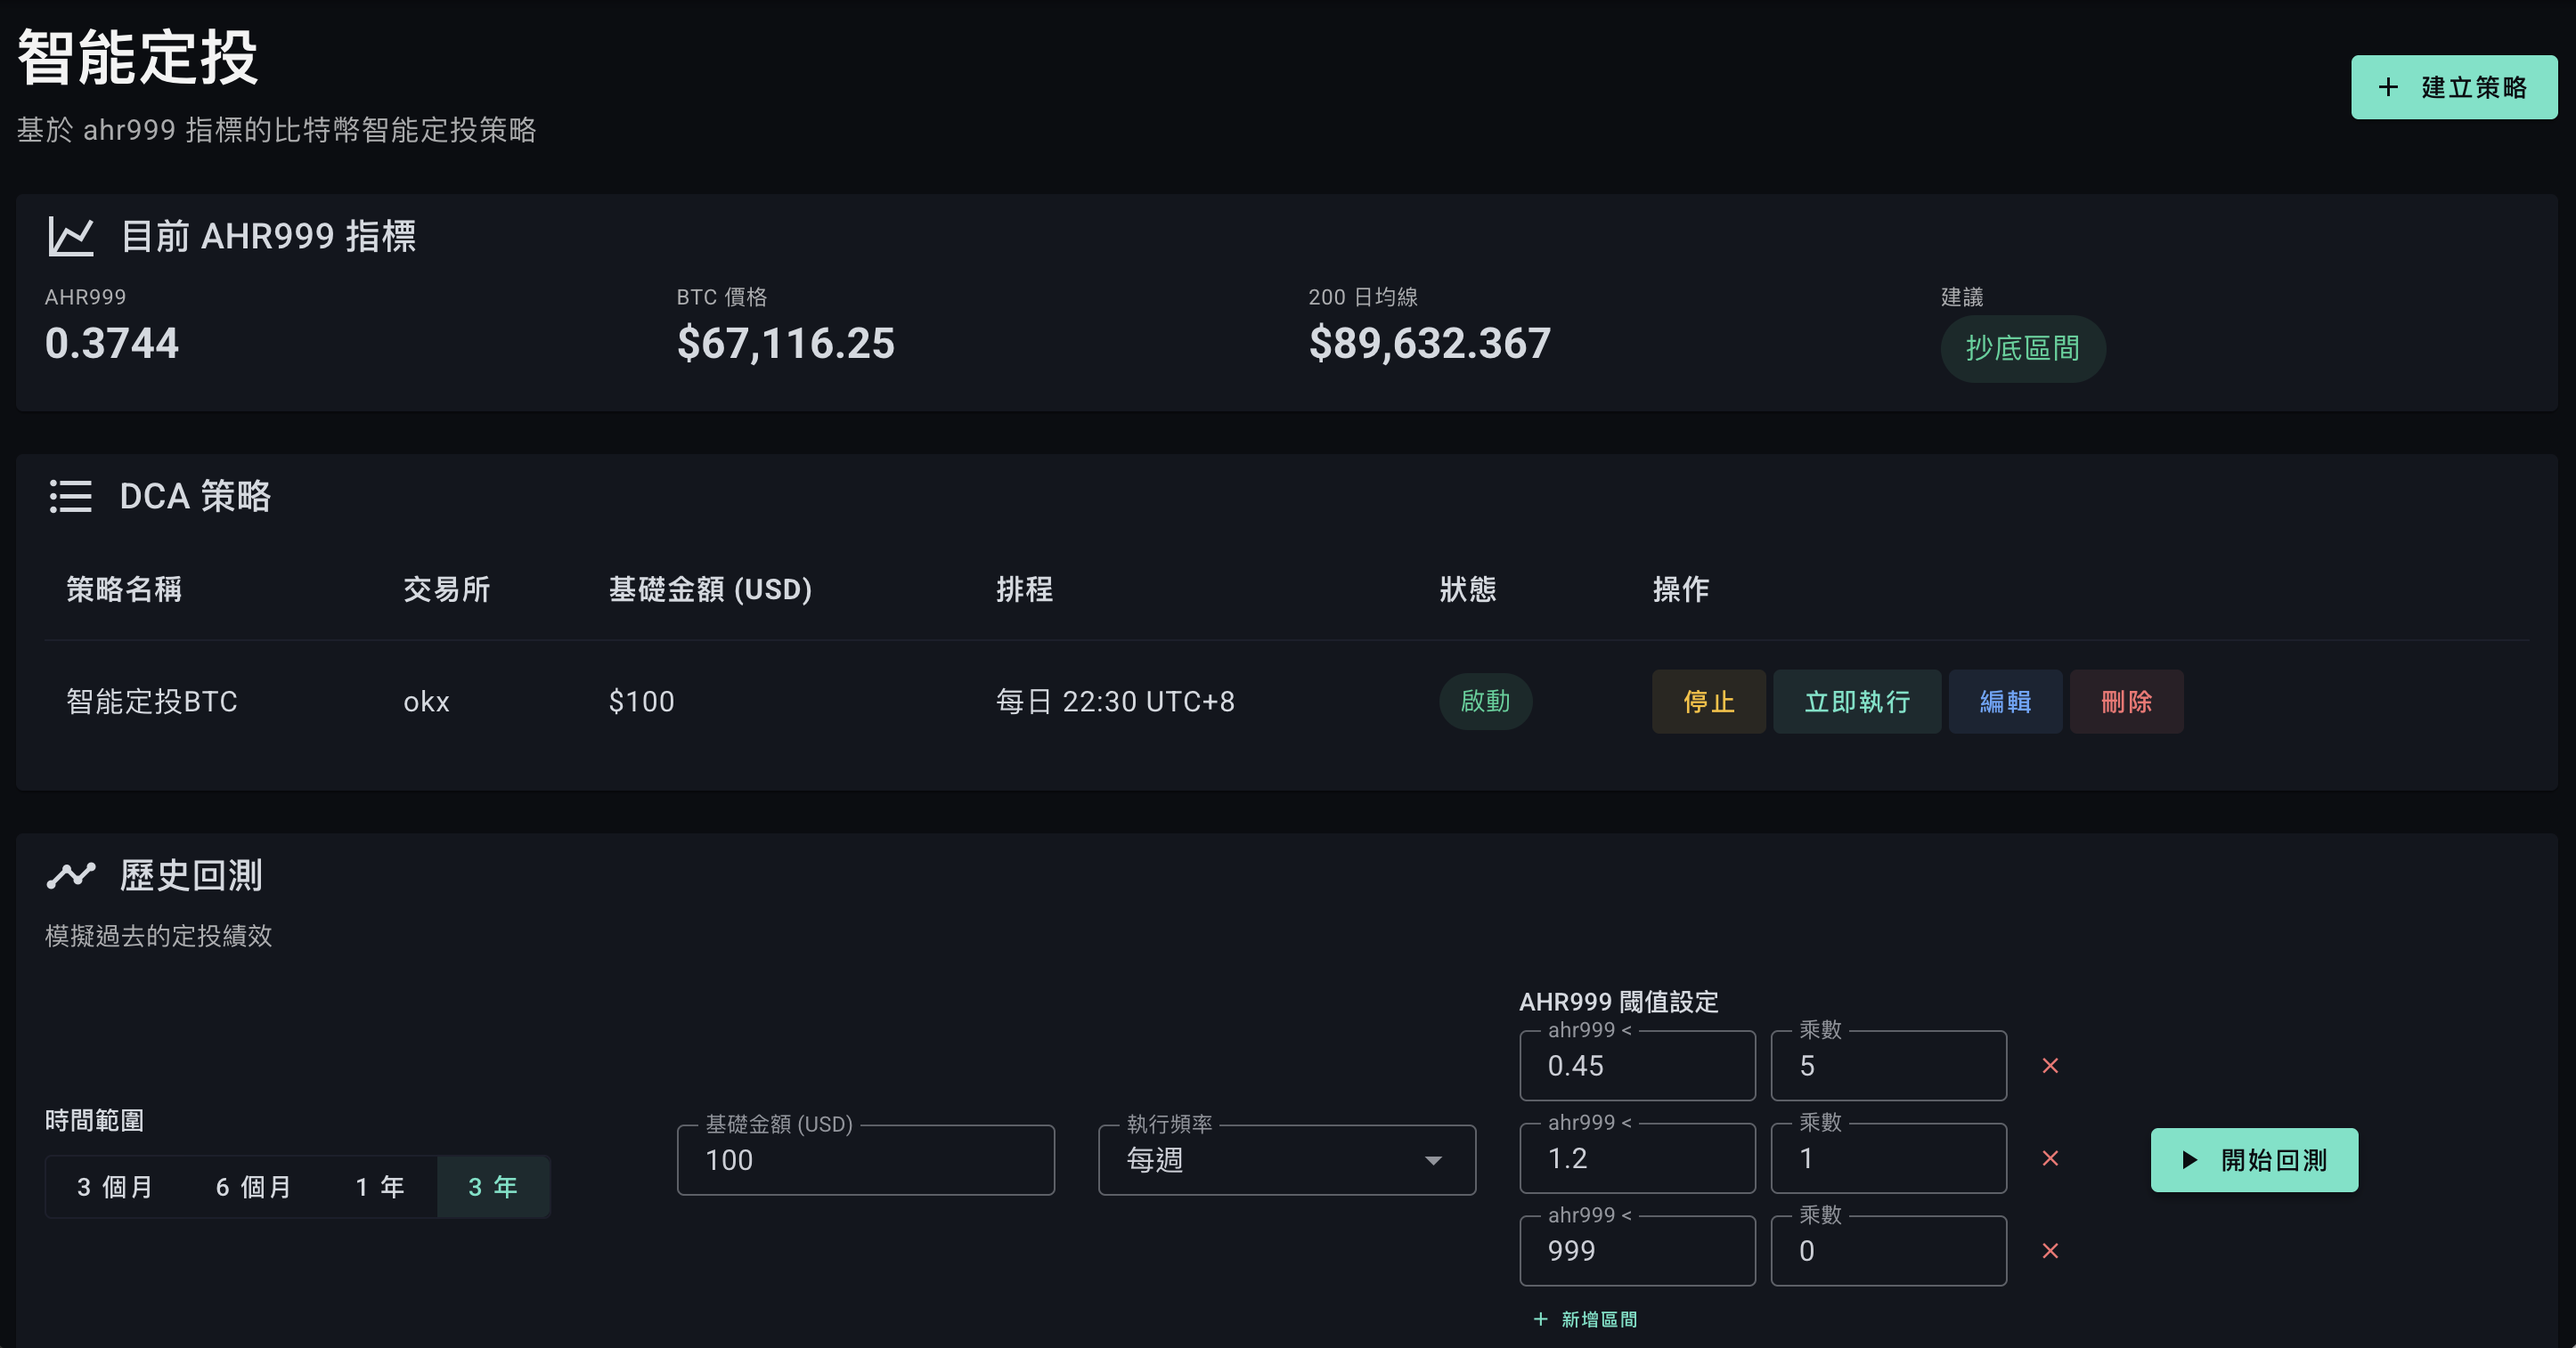
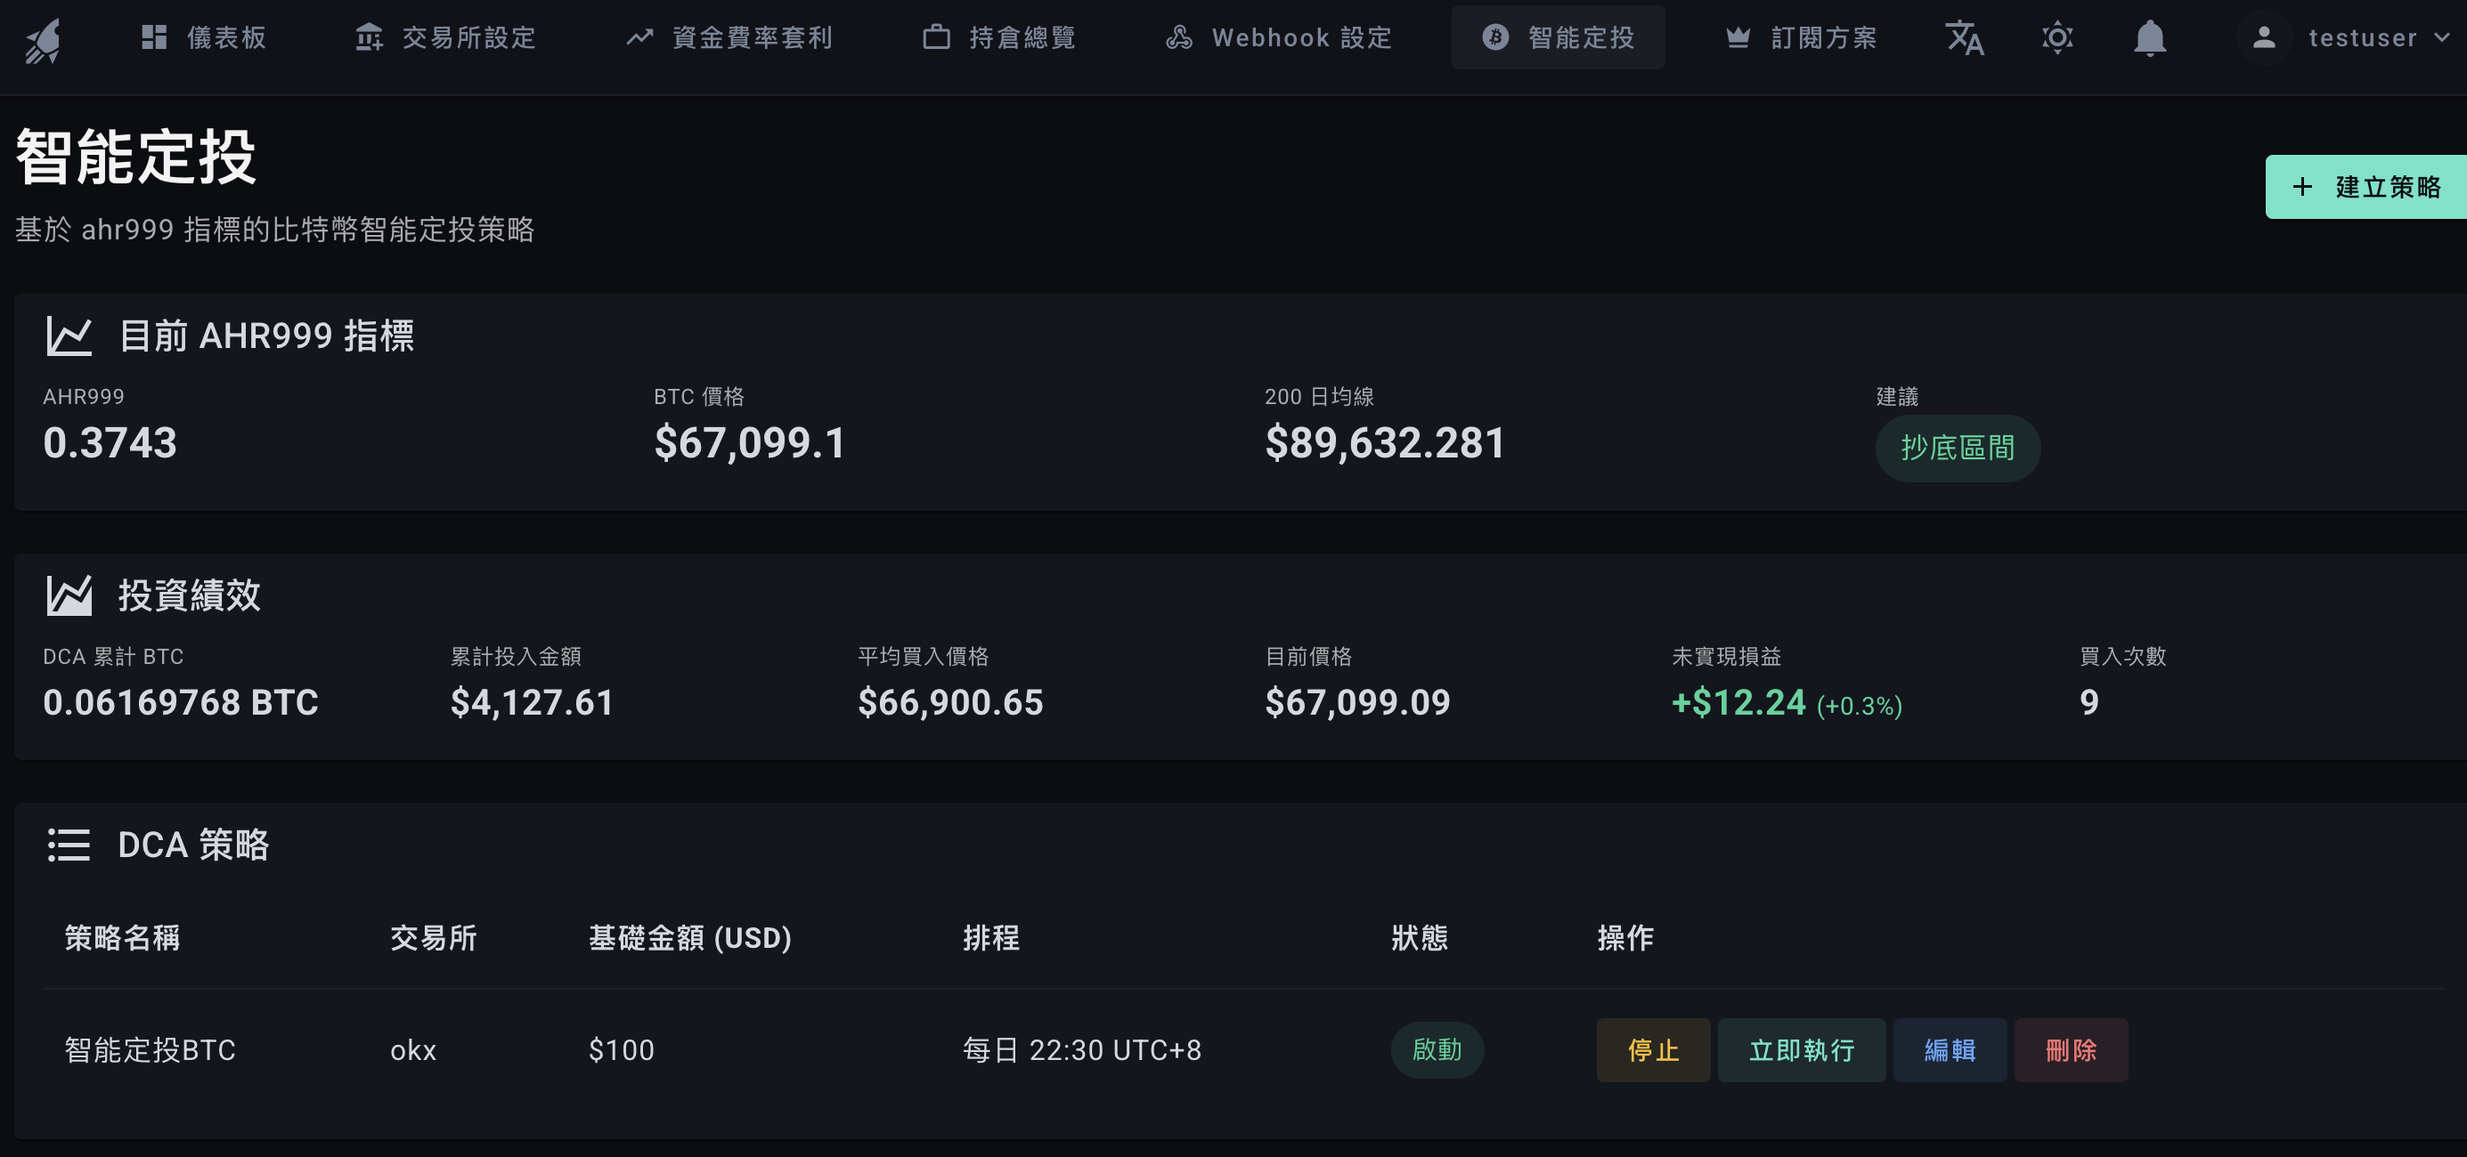
change dca dashboard page

diff --git a/docs/zh-tw/other/settings-page.md b/docs/zh-tw/other/settings-page.md
@@ -74,7 +74,7 @@
 | 價格 | $0 | $29 USDT/月 | $290 USDT/年（省約 17%） |
 | 交易所 | 1 個 | 無限制 | 無限制 |
 | 策略數量 | 每類 1 個 | 無限制 | 無限制 |
-| Webhook 自動化 | 基本 | 完整（含 SL/TP、範本） | 完整（含 SL/TP、��本） |
+| Webhook 自動化 | 基本 | 完整（含 SL/TP、範本） | 完整（含 SL/TP、範本） |
 | 智能定投 | 僅檢視 | 自動執行 | 自動執行 |
 
 ### 付款方式
